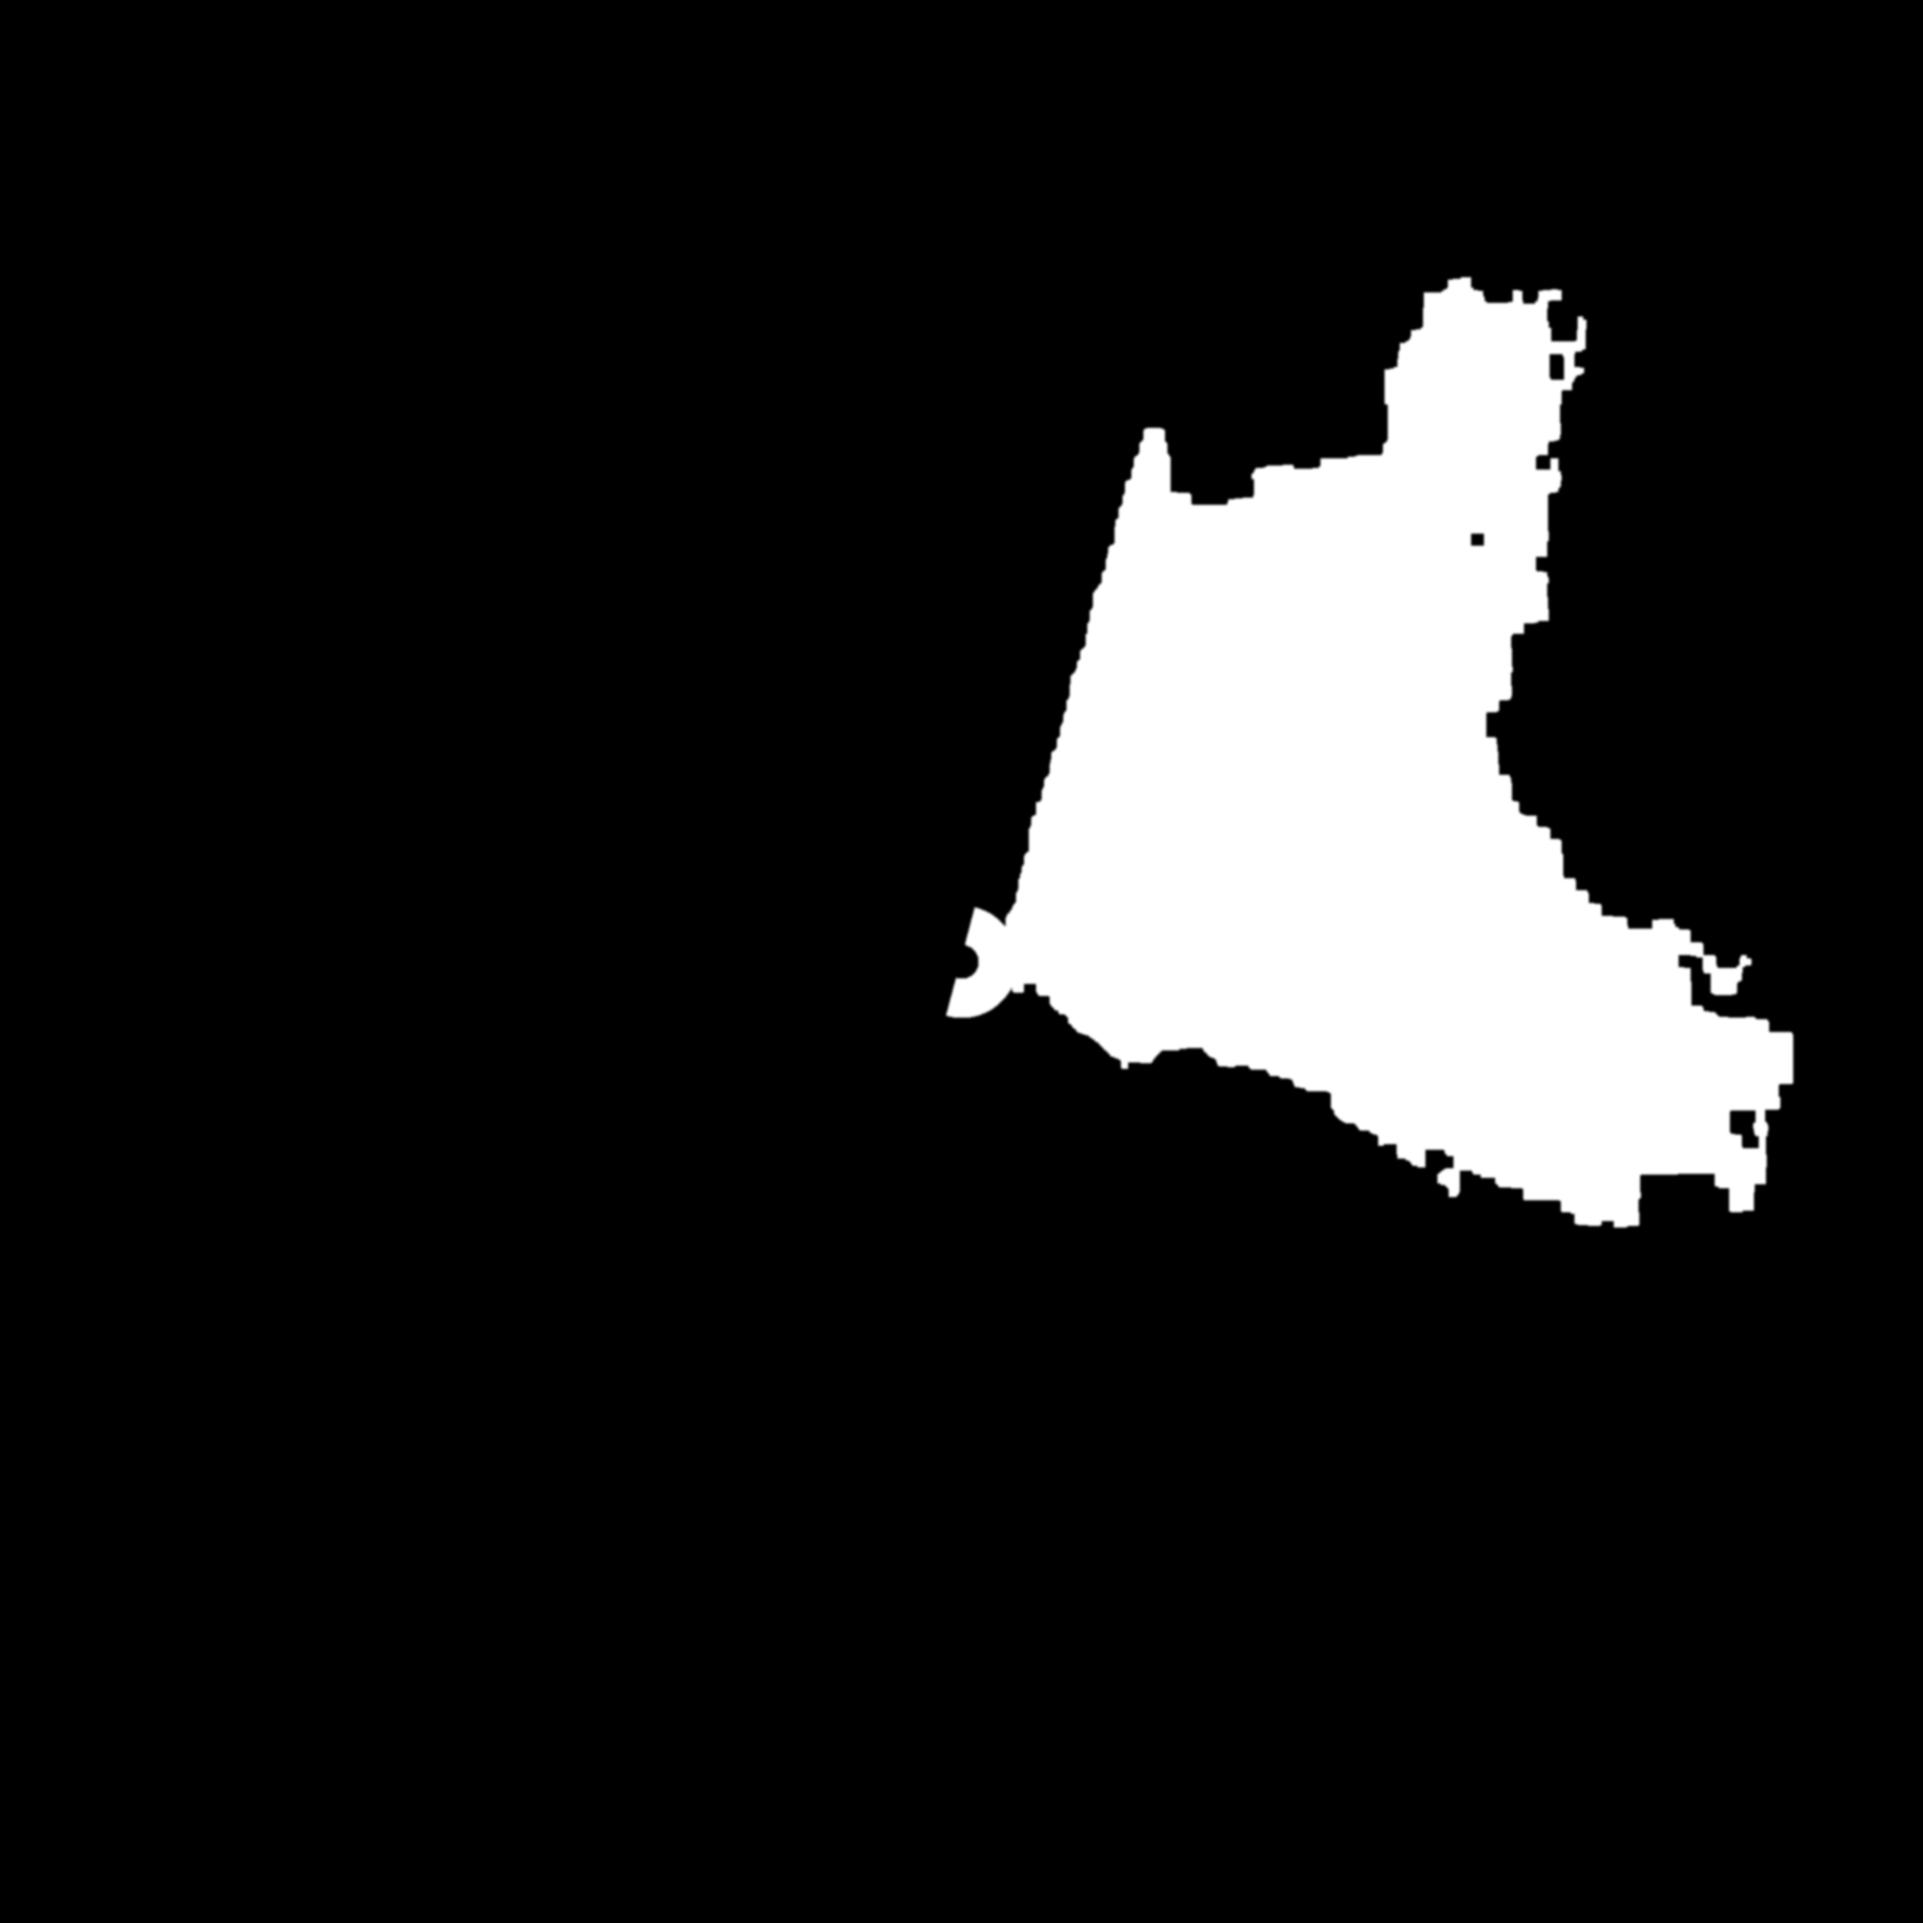
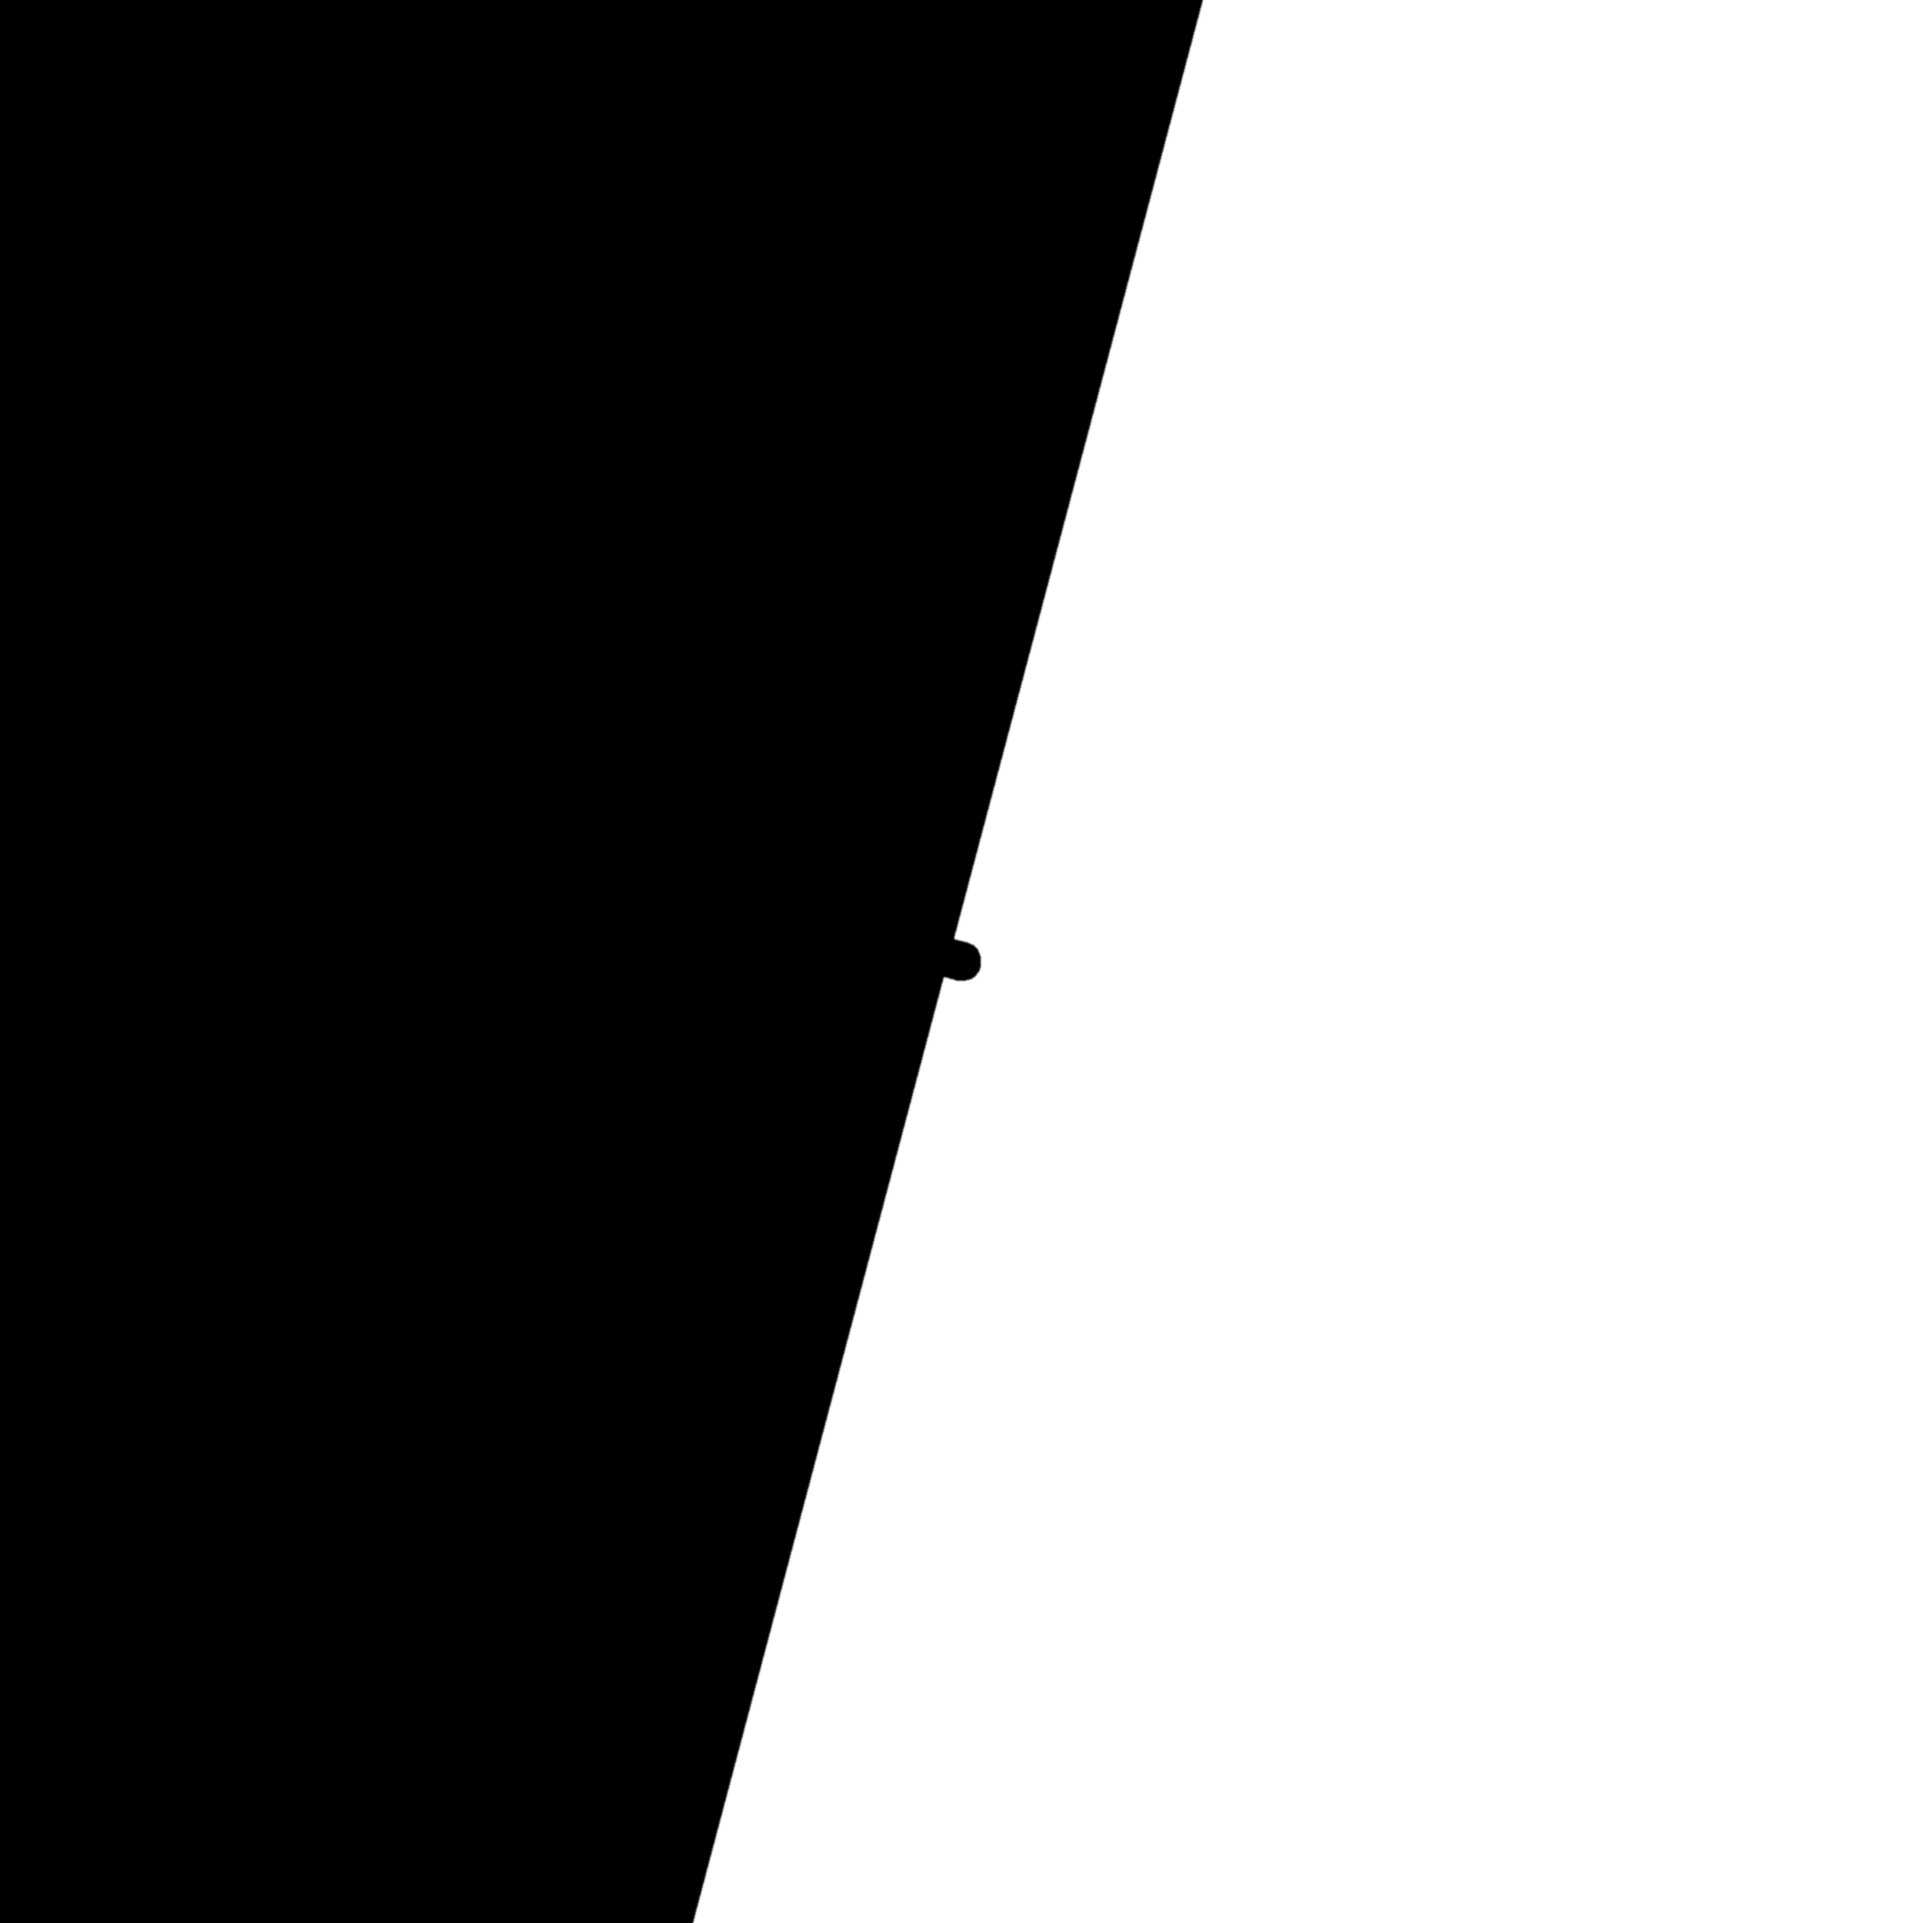
Water planes meet the terrain; brighter baked mode with grass detail
Lake 1 is now a full plane at EL 476.6 upstream of the dam crest (minus the
spillway box) so the shoreline is the terrain/plane intersection; Lake 2's
outline is dilated under the raised shore. Baked lighting gets a 1.8x gain,
tiled grass detail on the terrain and PNG atlases for the structures.
Lightmaps and GLBs are being re-baked and follow in the next commit.

Claude-Session: https://claude.ai/code/session_01MNqAVN7XhVLyoYLNavr8bW

diff --git a/viewer/app.js b/viewer/app.js
@@ -124,7 +124,7 @@ function tuneMaterials(root) {
     else if (n === 'ChainLink') { m.transparent = false; m.alphaTest = 0.4; m.side = THREE.DoubleSide; m.metalness = 0.8; m.roughness = 0.45; }
     else if (n.startsWith('Water')) {
       m.transparent = false; m.alphaTest = 0.5; m.depthWrite = true;
-      m.color.setRGB(0.07, 0.12, 0.08); m.roughness = 0.42; m.metalness = 0.0; m.envMapIntensity = 0.7;
+      m.color.setRGB(0.09, 0.14, 0.10); m.roughness = 0.35; m.metalness = 0.0; m.envMapIntensity = 0.8;
       m.normalMap = waterN; m.normalScale = new THREE.Vector2(0.35, 0.35); m.clearcoat = 0.0; m.specularIntensity = 0.6;
       m.userData.water = true;
     }
@@ -162,7 +162,16 @@ async function loadModel(say) {
 // Static surfaces (terrain, concrete, paths) carry irradiance baked in Cycles: direct sun + sky + bounce light,
 // tree and structure shadows included. They are drawn with MeshBasicMaterial(map × lightMap) so the raster sun
 // does not light them a second time; trees, rocks, water and metalwork stay dynamic.
-const BAKE = { meta: null, applied: false, originals: new Map(), textures: new Map(), lightScale: 1 };
+const BAKE = { meta: null, applied: false, originals: new Map(), textures: new Map(), lightScale: 1, gain: parseFloat(params.get('gain') || '1.8') };
+const DETAIL_TEX = texLoader.load(ASSET + 'grass_detail.jpg'); DETAIL_TEX.wrapS = DETAIL_TEX.wrapT = THREE.RepeatWrapping; DETAIL_TEX.colorSpace = THREE.SRGBColorSpace;
+function addGrassDetail(mat) {
+  mat.onBeforeCompile = sh => {
+    sh.uniforms.detailMap = { value: DETAIL_TEX };
+    sh.fragmentShader = sh.fragmentShader.replace('#include <map_pars_fragment>', '#include <map_pars_fragment>\nuniform sampler2D detailMap;')
+      .replace('#include <map_fragment>', '#include <map_fragment>\n  { vec3 det = texture2D(detailMap, vMapUv * 300.0).rgb; vec3 det2 = texture2D(detailMap, vMapUv * 37.0).rgb; diffuseColor.rgb *= (det * 1.25 + 0.1) * (det2 * 0.9 + 0.35); }');
+  };
+  mat.customProgramCacheKey = () => 'baked-terrain-detail';
+}
 async function loadLightmaps() {
   try { BAKE.meta = await (await fetch(LIGHTMAPS)).json(); } catch (e) { BAKE.meta = null; }
   return !!BAKE.meta;
@@ -175,7 +184,7 @@ function bakedTargets(objNames) {
 function setBakedLighting(on, say) {
   if (!BAKE.meta) { if (say) say('No baked lightmaps available'); return false; }
   const ev = Math.pow(2, BAKE.meta.exposure_ev);               // Cycles view exposure (-3.4 EV)
-  const K = ev / renderer.toneMappingExposure;                 // irradiance -> viewer light units
+  const K = ev / renderer.toneMappingExposure * BAKE.gain;     // irradiance -> viewer light units (gain: brighter than the Cycles exposure)
   const base = LIGHTMAPS.replace(/[^/]*$/, '');
   const small = innerWidth * devicePixelRatio < 1600;
   if (on && !BAKE.applied) {
@@ -190,12 +199,13 @@ function setBakedLighting(on, say) {
         const bm = new THREE.MeshBasicMaterial({ map: o.map || null, color: o.color ? o.color.clone() : new THREE.Color(1, 1, 1), side: o.side, alphaTest: o.alphaTest || 0, transparent: false });
         bm.lightMap = lm; bm.lightMapIntensity = m.scale * K; bm.name = o.name + '_baked'; bm.userData.baked = true;
         if (o.map && o.map.channel !== undefined) bm.map = o.map;
+        if (/^Terrain/.test(o.name)) { bm.color.setRGB(0.9, 0.93, 0.85); addGrassDetail(bm); }
         mesh.material = bm; mesh.receiveShadow = false;
       }
       sunlit += m.sunlit_p99 * K; n++;
     }
     // bring the dynamic sun/sky for trees, rocks and water in line with the baked sunlit level
-    if (n && SUN) { const target = (sunlit / n) / Math.PI; const f = THREE.MathUtils.clamp(target / 2.4, 0.4, 2.5); BAKE.lightScale = f; SUN.intensity = 2.3 * f; scene.traverse(o => { if (o.isHemisphereLight) o.intensity = 0.3 * f; }); scene.environmentIntensity = 0.45 * f; }
+    if (n && SUN) { const target = (sunlit / n) / Math.PI; const f = THREE.MathUtils.clamp(target / 2.4, 0.6, 2.5); BAKE.lightScale = f; SUN.intensity = 2.3 * f; scene.traverse(o => { if (o.isHemisphereLight) o.intensity = 0.3 * f; }); scene.environmentIntensity = 0.45 * f; }
     BAKE.applied = true;
   } else if (!on && BAKE.applied) {
     for (const { mesh, material, receiveShadow } of BAKE.originals.values()) { mesh.material = material; mesh.receiveShadow = receiveShadow; }

diff --git a/blender/bake_lightmaps.py b/blender/bake_lightmaps.py
@@ -91,7 +91,7 @@ def smart_lm_uv(ob):
     select_only([ob])
     bpy.ops.object.mode_set(mode='EDIT')
     bpy.ops.mesh.select_all(action='SELECT')
-    bpy.ops.uv.smart_project(angle_limit=math.radians(66), island_margin=0.006, area_weight=0.0, correct_aspect=True, scale_to_bounds=False)
+    bpy.ops.uv.smart_project(angle_limit=math.radians(66), island_margin=0.004, area_weight=0.0, correct_aspect=True, scale_to_bounds=True)
     bpy.ops.object.mode_set(mode='OBJECT')
     return {}
 
@@ -164,11 +164,12 @@ def finish():
         v = np.clip(rgb / S, 0, 1)
         srgb = np.where(v <= 0.0031308, v * 12.92, 1.055 * np.power(v, 1 / 2.4) - 0.055)
         im = Image.fromarray((srgb * 255 + 0.5).astype(np.uint8)[::-1])     # Blender images are bottom-up
-        im.save(os.path.join(LM_PUB, key + '.jpg'), quality=90, optimize=True, progressive=True)
-        im.resize((g['size'] // 2, g['size'] // 2), Image.LANCZOS).save(os.path.join(LM_PUB, key + '_s.jpg'), quality=88, optimize=True)
+        ext = 'png' if key in ('structures', 'surfaces') else 'jpg'      # hard shadow edges on the atlases: no JPEG ringing
+        if ext == 'png': im.save(os.path.join(LM_PUB, key + '.png'), optimize=True); im.resize((g['size'] // 2, g['size'] // 2), Image.LANCZOS).save(os.path.join(LM_PUB, key + '_s.png'), optimize=True)
+        else: im.save(os.path.join(LM_PUB, key + '.jpg'), quality=92, optimize=True, progressive=True); im.resize((g['size'] // 2, g['size'] // 2), Image.LANCZOS).save(os.path.join(LM_PUB, key + '_s.jpg'), quality=90, optimize=True)
         names = [g['join']] if g.get('join') else g['names']
         # viewer units: Blender irradiance * 2^EV / (toneMappingExposure 0.9 handled in viewer)
-        meta['maps'][key] = {'file': key + '.jpg', 'file_small': key + '_s.jpg', 'scale': S, 'objects': names, 'sunlit_p99': S,
+        meta['maps'][key] = {'file': key + '.' + ext, 'file_small': key + '_s.' + ext, 'scale': S, 'objects': names, 'sunlit_p99': S,
                              'mean_lum': float(lum[covered].mean()) if covered.any() else 0.0}
         print(f'{key}: scale {S:.2f}, mean {meta["maps"][key]["mean_lum"]:.2f}, covered {covered.mean():.2f}')
     json.dump(meta, open(os.path.join(LM_PUB, 'lightmaps.json'), 'w'), indent=1)

diff --git a/tools/make_water_masks.py b/tools/make_water_masks.py
@@ -1,0 +1,21 @@
+#!/usr/bin/env python3
+"""Water-plane masks for the viewer and the Blender scene.
+Lake 1: the plane at EL 476.6 covers everything upstream of the dam crest (local x < 17 ft) except the spillway box,
+so the shoreline is the true terrain/plane intersection. Lake 2: the aerial outline dilated 12 ft (the shore was
+raised above EL 491 within 25 ft of it), again hidden by terrain at the edge."""
+import os, math, numpy as np
+from PIL import Image, ImageFilter
+A = os.path.join(os.path.dirname(os.path.abspath(__file__)), '..', 'viewer', 'assets')
+EXT = 2400
+U = (-0.9666, 0.2563); V = (0.2563, 0.9666)
+jj, ii = np.meshgrid(np.arange(EXT), np.arange(EXT)); E = jj - EXT / 2; N = EXT / 2 - ii
+LX = E * U[0] + N * U[1]; LY = E * V[0] + N * V[1]
+cut = np.asarray(Image.open(os.path.join(A, 'cutmask.png')).convert('L')) > 127
+box = np.asarray(Image.fromarray((cut * 255).astype(np.uint8)).filter(ImageFilter.MaxFilter(7))) > 0
+w1 = (LX < 17.0) & ~box
+w1 = np.asarray(Image.fromarray((w1 * 255).astype(np.uint8)).filter(ImageFilter.GaussianBlur(1.0)))
+Image.fromarray(w1).save(os.path.join(A, 'water1.png'))
+old2 = np.asarray(Image.open(os.path.join(A, 'water2.png')).convert('L')) > 127
+w2 = np.asarray(Image.fromarray((old2 * 255).astype(np.uint8)).filter(ImageFilter.MaxFilter(25)).filter(ImageFilter.GaussianBlur(1.0)))
+Image.fromarray(w2).save(os.path.join(A, 'water2.png'))
+print('water1 coverage', (w1 > 127).mean().round(3), 'water2 coverage', (w2 > 127).mean().round(3))
